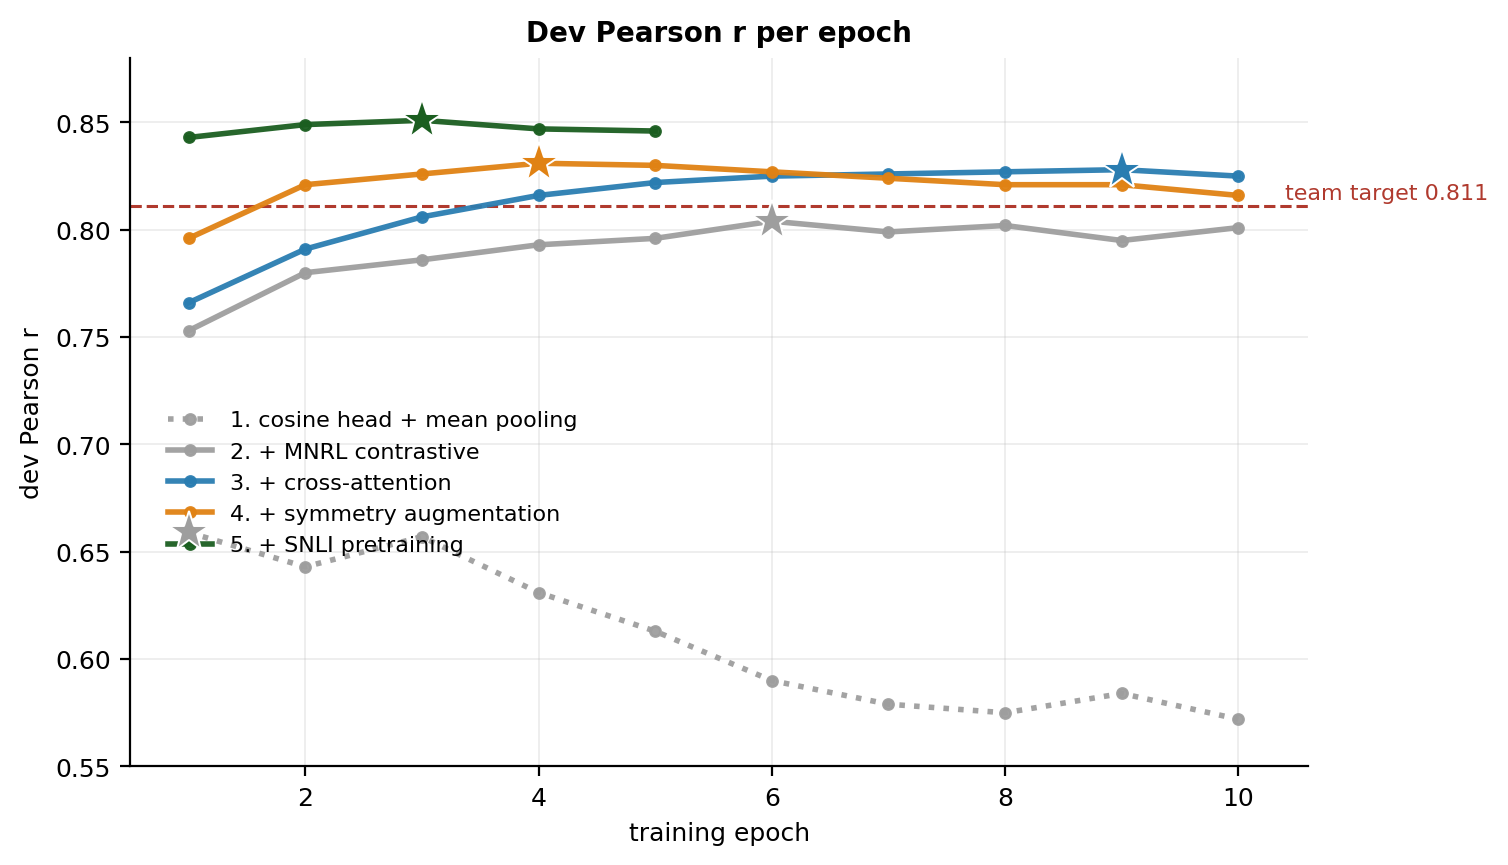
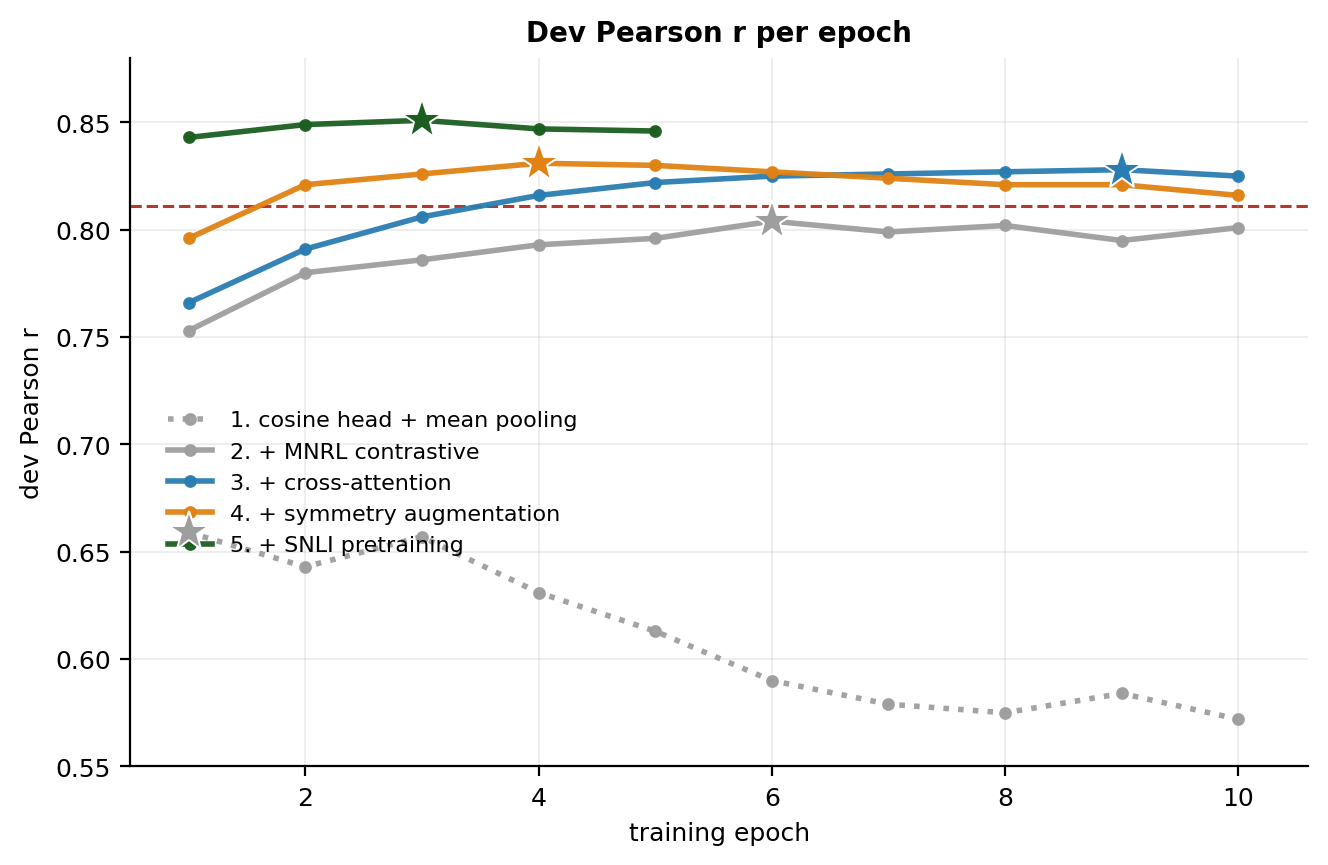
sts figure updates

diff --git a/figures/make_sts_figures.py b/figures/make_sts_figures.py
@@ -77,7 +77,6 @@ def v1_progression():
         ax.plot(c["ep"][k], c["dev"][k], "*", color=col, ms=15,
                 markeredgecolor="white", markeredgewidth=0.7, zorder=6)
     ax.axhline(TARGET, color=CL["bad"], ls="--", lw=1.1, zorder=0)
-    ax.text(10.4, TARGET + .003, f"team target {TARGET}", color=CL["bad"], fontsize=8)
     ax.set_xlabel("training epoch"); ax.set_ylabel("dev Pearson r")
     ax.set_title("Dev Pearson r per epoch")
     ax.legend(loc="center left", bbox_to_anchor=(0.015, 0.40))
@@ -153,7 +152,7 @@ def v4_train_loss():
     """Loss is only comparable across runs with an identical loss composition."""
     runs = [("sts_exp16_crossattn", "cross-attention", CL["ca"]),
             ("sts_exp19_ca_symmetry", "+ symmetry", CL["sym"]),
-            ("sts_exp25a_qqpckpt", "+ teammate encoder init", CL["quora"]),
+            ("sts_exp25a_qqpckpt", "+ QQP encoder init", CL["quora"]),
             ("sts_exp08_seed42", "+ SNLI pretraining", CL["snli"])]
     fig, ax = plt.subplots(figsize=(7.4, 4.2))
     for f, lab, col in runs:
